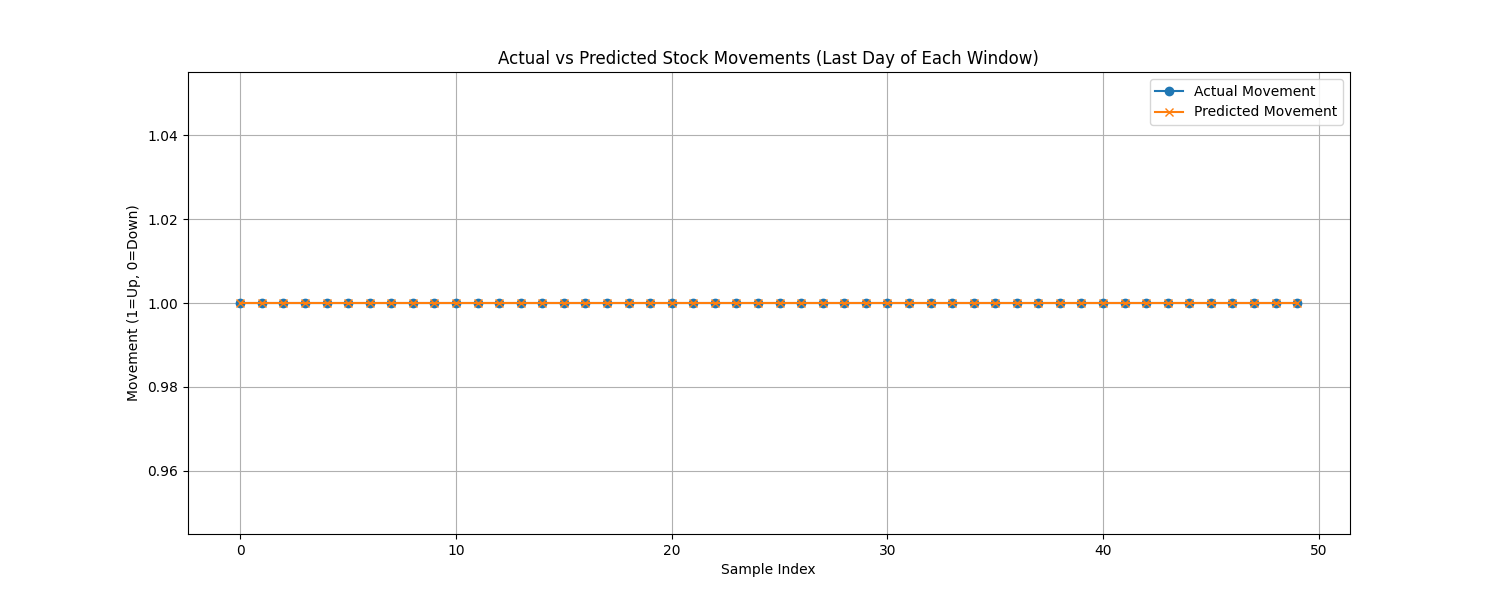
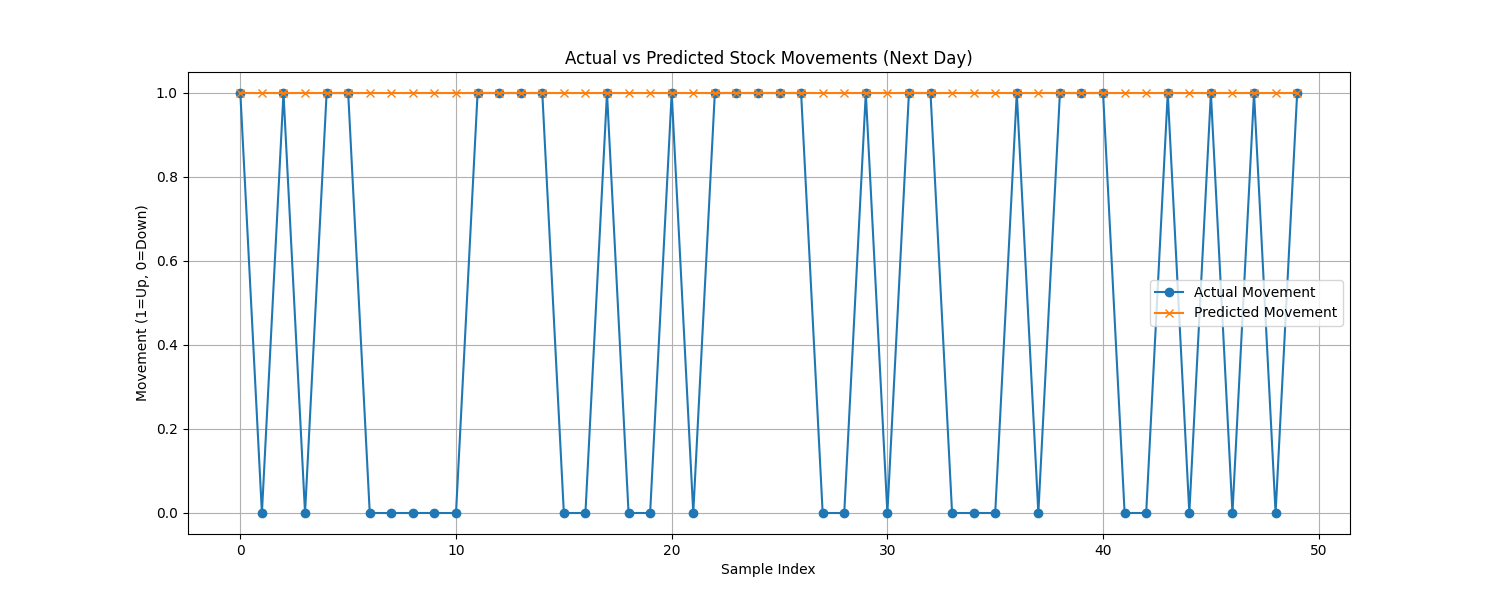
lstm 1.0

diff --git a/stock_prediction_lstm.py b/stock_prediction_lstm.py
@@ -39,30 +39,30 @@ def load_and_prepare_data(file_path):
     return df[['date'] + features]
 
 def create_sequences(data, lag_window):
-    """Create sequences for LSTM model with multiple prediction targets."""
+    """Create sequences for LSTM model to predict the next day's movement."""
     X, y = [], []
     
-    for i in range(len(data) - lag_window):
+    for i in range(len(data) - lag_window - 1):
         # Input sequence: features from days i to i+lag_window-1
         seq = data[i:i+lag_window].values
         
-        # Target: movement direction for each day in the window
+        # Target: movement direction for the next day (day i+lag_window)
         # 1 if movement_percent > 0 else 0
-        targets = (data['movement_percent'].iloc[i:i+lag_window].values > 0).astype(int)
+        target = 1 if data['movement_percent'].iloc[i+lag_window] > 0 else 0
         
         X.append(seq)
-        y.append(targets)
+        y.append(target)
     
     return np.array(X), np.array(y)
 
-def build_model(input_shape, output_length):
+def build_model(input_shape):
     """Build and compile the LSTM model."""
     model = Sequential([
         LSTM(64, return_sequences=True, input_shape=input_shape),
         Dropout(0.2),
         LSTM(32, return_sequences=False),
         Dropout(0.2),
-        Dense(output_length, activation='sigmoid')
+        Dense(1, activation='sigmoid')
     ])
     
     model.compile(
@@ -80,14 +80,24 @@ def main():
     print(f"Data shape: {data.shape}")
     
     # Normalize numerical features
-    scaler = MinMaxScaler()
+    # scaler = MinMaxScaler()
     features = data.columns[1:]  # Exclude date
-    data_scaled = pd.DataFrame(scaler.fit_transform(data[features]), columns=features)
+    # data_scaled = pd.DataFrame(scaler.fit_transform(data[features]), columns=features)
+    data_scaled = data[features]  # Use raw data without normalization
     
     # Create sequences
     print("Creating sequences...")
     X, y = create_sequences(data_scaled, LAG_WINDOW)
     print(f"X shape: {X.shape}, y shape: {y.shape}")
+    
+    # Display sample data
+    print("\nSample X data (first 3 sequences):")
+    for i in range(min(3, len(X))):
+        print(f"Sequence {i+1}:")
+        sample_df = pd.DataFrame(X[i], columns=features)
+        print(sample_df)
+        print(f"Target y[{i}]: {y[i]} ({'Up' if y[i] == 1 else 'Down'})")
+        print()
     
     # Split into training and testing sets
     split_idx = int(len(X) * (1 - TEST_SIZE))
@@ -96,7 +106,7 @@ def main():
     
     # Build and train the model
     print("Building and training the model...")
-    model = build_model(input_shape=(LAG_WINDOW, len(features)), output_length=LAG_WINDOW)
+    model = build_model(input_shape=(LAG_WINDOW, len(features)))
     
     history = model.fit(
         X_train, y_train,
@@ -114,19 +124,15 @@ def main():
     
     # Make predictions
     y_pred = model.predict(X_test)
-    y_pred_binary = (y_pred > 0.5).astype(int)
+    y_pred_binary = (y_pred > 0.5).astype(int).flatten()
     
-    # Focus on the prediction for the last day in each window
-    y_test_last_day = y_test[:, -1]
-    y_pred_last_day = y_pred_binary[:, -1]
+    # Calculate accuracy
+    accuracy = accuracy_score(y_test, y_pred_binary)
+    print(f"Prediction Accuracy: {accuracy:.4f}")
     
-    # Calculate accuracy for the last day predictions
-    last_day_accuracy = accuracy_score(y_test_last_day, y_pred_last_day)
-    print(f"Last Day Prediction Accuracy: {last_day_accuracy:.4f}")
-    
-    # Print classification report for the last day
-    print("\nClassification Report for Last Day Predictions:")
-    print(classification_report(y_test_last_day, y_pred_last_day))
+    # Print classification report
+    print("\nClassification Report:")
+    print(classification_report(y_test, y_pred_binary))
     
     # Plot training history
     plt.figure(figsize=(12, 5))
@@ -152,11 +158,11 @@ def main():
     plt.close()
     
     # Plot actual vs predicted movements for a sample period
-    sample_size = min(50, len(y_test_last_day))
+    sample_size = min(50, len(y_test))
     plt.figure(figsize=(15, 6))
-    plt.plot(y_test_last_day[:sample_size], label='Actual Movement', marker='o')
-    plt.plot(y_pred_last_day[:sample_size], label='Predicted Movement', marker='x')
-    plt.title('Actual vs Predicted Stock Movements (Last Day of Each Window)')
+    plt.plot(y_test[:sample_size], label='Actual Movement', marker='o')
+    plt.plot(y_pred_binary[:sample_size], label='Predicted Movement', marker='x')
+    plt.title('Actual vs Predicted Stock Movements (Next Day)')
     plt.xlabel('Sample Index')
     plt.ylabel('Movement (1=Up, 0=Down)')
     plt.legend()
